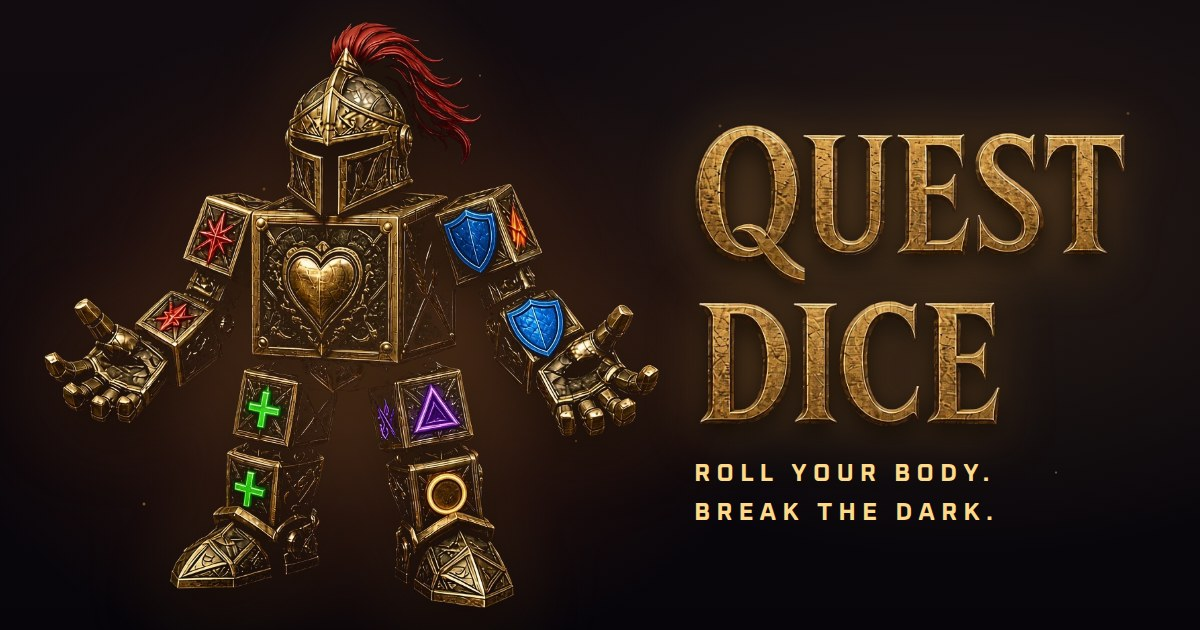
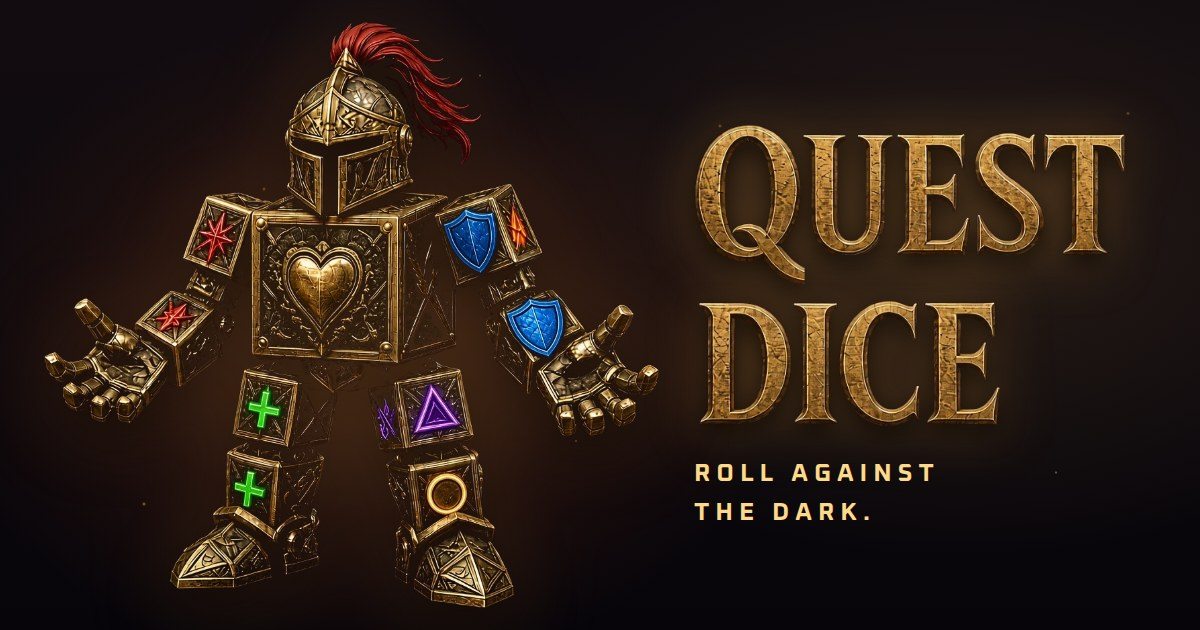
Tagline: Roll against the dark. (home screen, link preview picture and descriptions)
Claude-Session: https://claude.ai/code/session_01DujDBar2Jc6ufUDBkRgkDu

Changed region(s): [[0.5858, 0.7238, 0.8325, 0.8444]]

diff --git a/index.html b/index.html
@@ -5,10 +5,10 @@
   <meta name="viewport" content="width=device-width, initial-scale=1, viewport-fit=cover">
   <meta name="theme-color" content="#04060d">
   <title>Quest Dice</title>
-  <script type="importmap">{"imports":{"three":"./vendor/three/build/three.module.js","three/addons/":"./vendor/three/examples/jsm/","./js/auction.js":"./js/auction.js?v=20261010q","./js/audio.js":"./js/audio.js?v=20261010q","./js/cloud.js":"./js/cloud.js?v=20261010q","./js/coach.js":"./js/coach.js?v=20261010q","./js/data.js":"./js/data.js?v=20261010q","./js/die3d.js":"./js/die3d.js?v=20261010q","./js/dom.js":"./js/dom.js?v=20261010q","./js/engine.js":"./js/engine.js?v=20261010q","./js/firebase-config.js":"./js/firebase-config.js?v=20261010q","./js/fx.js":"./js/fx.js?v=20261010q","./js/g3/battle3d.js":"./js/g3/battle3d.js?v=20261010q","./js/g3/director.js":"./js/g3/director.js?v=20261010q","./js/g3/hudkit.js":"./js/g3/hudkit.js?v=20261010q","./js/g3/icons.js":"./js/g3/icons.js?v=20261010q","./js/g3/portrait.js":"./js/g3/portrait.js?v=20261010q","./js/g3/screens.js":"./js/g3/screens.js?v=20261010q","./js/g3/scrui.js":"./js/g3/scrui.js?v=20261010q","./js/g3/stubs.js":"./js/g3/stubs.js?v=20261010q","./js/g3/tutorial.js":"./js/g3/tutorial.js?v=20261010q","./js/g3/world.js":"./js/g3/world.js?v=20261010q","./js/gfx/actors/base.js":"./js/gfx/actors/base.js?v=20261010q","./js/gfx/actors/common.js":"./js/gfx/actors/common.js?v=20261010q","./js/gfx/actors/cultist.js":"./js/gfx/actors/cultist.js?v=20261010q","./js/gfx/actors/goblin.js":"./js/gfx/actors/goblin.js?v=20261010q","./js/gfx/actors/goblinking.js":"./js/gfx/actors/goblinking.js?v=20261010q","./js/gfx/actors/hero.js":"./js/gfx/actors/hero.js?v=20261010q","./js/gfx/actors/heroclips.js":"./js/gfx/actors/heroclips.js?v=20261010q","./js/gfx/actors/herocloth.js":"./js/gfx/actors/herocloth.js?v=20261010q","./js/gfx/actors/herokit.js":"./js/gfx/actors/herokit.js?v=20261010q","./js/gfx/actors/index.js":"./js/gfx/actors/index.js?v=20261010q","./js/gfx/actors/ogre.js":"./js/gfx/actors/ogre.js?v=20261010q","./js/gfx/actors/parts.js":"./js/gfx/actors/parts.js?v=20261010q","./js/gfx/actors/parts2.js":"./js/gfx/actors/parts2.js?v=20261010q","./js/gfx/actors/wolf.js":"./js/gfx/actors/wolf.js?v=20261010q","./js/gfx/arena.js":"./js/gfx/arena.js?v=20261010q","./js/gfx/arena/common.js":"./js/gfx/arena/common.js?v=20261010q","./js/gfx/arena/flora.js":"./js/gfx/arena/flora.js?v=20261010q","./js/gfx/arena/fx.js":"./js/gfx/arena/fx.js?v=20261010q","./js/gfx/arena/ground.js":"./js/gfx/arena/ground.js?v=20261010q","./js/gfx/arena/helpers.js":"./js/gfx/arena/helpers.js?v=20261010q","./js/gfx/arena/kit.js":"./js/gfx/arena/kit.js?v=20261010q","./js/gfx/arena/places1.js":"./js/gfx/arena/places1.js?v=20261010q","./js/gfx/arena/places2.js":"./js/gfx/arena/places2.js?v=20261010q","./js/gfx/arena/props.js":"./js/gfx/arena/props.js?v=20261010q","./js/gfx/arena/sky.js":"./js/gfx/arena/sky.js?v=20261010q","./js/gfx/arena/tex.js":"./js/gfx/arena/tex.js?v=20261010q","./js/gfx/core.js":"./js/gfx/core.js?v=20261010q","./js/gfx/demo/actor.js":"./js/gfx/demo/actor.js?v=20261010q","./js/gfx/demo/arena.js":"./js/gfx/demo/arena.js?v=20261010q","./js/gfx/demo/dicegallery.js":"./js/gfx/demo/dicegallery.js?v=20261010q","./js/gfx/demo/dicelab.js":"./js/gfx/demo/dicelab.js?v=20261010q","./js/gfx/demo/materials.js":"./js/gfx/demo/materials.js?v=20261010q","./js/gfx/demo/tray.js":"./js/gfx/demo/tray.js?v=20261010q","./js/gfx/demo/vfx.js":"./js/gfx/demo/vfx.js?v=20261010q","./js/gfx/demo/weapons.js":"./js/gfx/demo/weapons.js?v=20261010q","./js/gfx/dice/art.js":"./js/gfx/dice/art.js?v=20261010q","./js/gfx/dice/dice.js":"./js/gfx/dice/dice.js?v=20261010q","./js/gfx/dice/faces.js":"./js/gfx/dice/faces.js?v=20261010q","./js/gfx/dice/fx.js":"./js/gfx/dice/fx.js?v=20261010q","./js/gfx/dice/poly.js":"./js/gfx/dice/poly.js?v=20261010q","./js/gfx/dice/roll.js":"./js/gfx/dice/roll.js?v=20261010q","./js/gfx/dice/tray.js":"./js/gfx/dice/tray.js?v=20261010q","./js/gfx/env.js":"./js/gfx/env.js?v=20261010q","./js/gfx/mats.js":"./js/gfx/mats.js?v=20261010q","./js/gfx/noise.js":"./js/gfx/noise.js?v=20261010q","./js/gfx/particles.js":"./js/gfx/particles.js?v=20261010q","./js/gfx/post.js":"./js/gfx/post.js?v=20261010q","./js/gfx/rig.js":"./js/gfx/rig.js?v=20261010q","./js/gfx/tex.js":"./js/gfx/tex.js?v=20261010q","./js/gfx/util.js":"./js/gfx/util.js?v=20261010q","./js/gfx/vfx.js":"./js/gfx/vfx.js?v=20261010q","./js/gfx/vfx/quads.js":"./js/gfx/vfx/quads.js?v=20261010q","./js/gfx/vfx/shaders.js":"./js/gfx/vfx/shaders.js?v=20261010q","./js/gfx/vfx/strips.js":"./js/gfx/vfx/strips.js?v=20261010q","./js/gfx/vfx/text.js":"./js/gfx/vfx/text.js?v=20261010q","./js/gfx/vfx/textures.js":"./js/gfx/vfx/textures.js?v=20261010q","./js/gfx/weapons.js":"./js/gfx/weapons.js?v=20261010q","./js/main.js":"./js/main.js?v=20261010q","./js/mat.js":"./js/mat.js?v=20261010q","./js/net.js":"./js/net.js?v=20261010q","./js/pack.js":"./js/pack.js?v=20261010q","./js/roads.js":"./js/roads.js?v=20261010q","./js/roomui.js":"./js/roomui.js?v=20261010q","./js/save.js":"./js/save.js?v=20261010q","./js/story.js":"./js/story.js?v=20261010q","./js/table.js":"./js/table.js?v=20261010q","./js/ui.js":"./js/ui.js?v=20261010q","./js/view.js":"./js/view.js?v=20261010q"}}</script>
-  <meta name="description" content="Roll your body. Break the dark. A fantasy dice campaign for one to six heroes, each on their own phone.">
+  <script type="importmap">{"imports":{"three":"./vendor/three/build/three.module.js","three/addons/":"./vendor/three/examples/jsm/","./js/auction.js":"./js/auction.js?v=20261010r","./js/audio.js":"./js/audio.js?v=20261010r","./js/cloud.js":"./js/cloud.js?v=20261010r","./js/coach.js":"./js/coach.js?v=20261010r","./js/data.js":"./js/data.js?v=20261010r","./js/die3d.js":"./js/die3d.js?v=20261010r","./js/dom.js":"./js/dom.js?v=20261010r","./js/engine.js":"./js/engine.js?v=20261010r","./js/firebase-config.js":"./js/firebase-config.js?v=20261010r","./js/fx.js":"./js/fx.js?v=20261010r","./js/g3/battle3d.js":"./js/g3/battle3d.js?v=20261010r","./js/g3/director.js":"./js/g3/director.js?v=20261010r","./js/g3/hudkit.js":"./js/g3/hudkit.js?v=20261010r","./js/g3/icons.js":"./js/g3/icons.js?v=20261010r","./js/g3/portrait.js":"./js/g3/portrait.js?v=20261010r","./js/g3/screens.js":"./js/g3/screens.js?v=20261010r","./js/g3/scrui.js":"./js/g3/scrui.js?v=20261010r","./js/g3/stubs.js":"./js/g3/stubs.js?v=20261010r","./js/g3/tutorial.js":"./js/g3/tutorial.js?v=20261010r","./js/g3/world.js":"./js/g3/world.js?v=20261010r","./js/gfx/actors/base.js":"./js/gfx/actors/base.js?v=20261010r","./js/gfx/actors/common.js":"./js/gfx/actors/common.js?v=20261010r","./js/gfx/actors/cultist.js":"./js/gfx/actors/cultist.js?v=20261010r","./js/gfx/actors/goblin.js":"./js/gfx/actors/goblin.js?v=20261010r","./js/gfx/actors/goblinking.js":"./js/gfx/actors/goblinking.js?v=20261010r","./js/gfx/actors/hero.js":"./js/gfx/actors/hero.js?v=20261010r","./js/gfx/actors/heroclips.js":"./js/gfx/actors/heroclips.js?v=20261010r","./js/gfx/actors/herocloth.js":"./js/gfx/actors/herocloth.js?v=20261010r","./js/gfx/actors/herokit.js":"./js/gfx/actors/herokit.js?v=20261010r","./js/gfx/actors/index.js":"./js/gfx/actors/index.js?v=20261010r","./js/gfx/actors/ogre.js":"./js/gfx/actors/ogre.js?v=20261010r","./js/gfx/actors/parts.js":"./js/gfx/actors/parts.js?v=20261010r","./js/gfx/actors/parts2.js":"./js/gfx/actors/parts2.js?v=20261010r","./js/gfx/actors/wolf.js":"./js/gfx/actors/wolf.js?v=20261010r","./js/gfx/arena.js":"./js/gfx/arena.js?v=20261010r","./js/gfx/arena/common.js":"./js/gfx/arena/common.js?v=20261010r","./js/gfx/arena/flora.js":"./js/gfx/arena/flora.js?v=20261010r","./js/gfx/arena/fx.js":"./js/gfx/arena/fx.js?v=20261010r","./js/gfx/arena/ground.js":"./js/gfx/arena/ground.js?v=20261010r","./js/gfx/arena/helpers.js":"./js/gfx/arena/helpers.js?v=20261010r","./js/gfx/arena/kit.js":"./js/gfx/arena/kit.js?v=20261010r","./js/gfx/arena/places1.js":"./js/gfx/arena/places1.js?v=20261010r","./js/gfx/arena/places2.js":"./js/gfx/arena/places2.js?v=20261010r","./js/gfx/arena/props.js":"./js/gfx/arena/props.js?v=20261010r","./js/gfx/arena/sky.js":"./js/gfx/arena/sky.js?v=20261010r","./js/gfx/arena/tex.js":"./js/gfx/arena/tex.js?v=20261010r","./js/gfx/core.js":"./js/gfx/core.js?v=20261010r","./js/gfx/demo/actor.js":"./js/gfx/demo/actor.js?v=20261010r","./js/gfx/demo/arena.js":"./js/gfx/demo/arena.js?v=20261010r","./js/gfx/demo/dicegallery.js":"./js/gfx/demo/dicegallery.js?v=20261010r","./js/gfx/demo/dicelab.js":"./js/gfx/demo/dicelab.js?v=20261010r","./js/gfx/demo/materials.js":"./js/gfx/demo/materials.js?v=20261010r","./js/gfx/demo/tray.js":"./js/gfx/demo/tray.js?v=20261010r","./js/gfx/demo/vfx.js":"./js/gfx/demo/vfx.js?v=20261010r","./js/gfx/demo/weapons.js":"./js/gfx/demo/weapons.js?v=20261010r","./js/gfx/dice/art.js":"./js/gfx/dice/art.js?v=20261010r","./js/gfx/dice/dice.js":"./js/gfx/dice/dice.js?v=20261010r","./js/gfx/dice/faces.js":"./js/gfx/dice/faces.js?v=20261010r","./js/gfx/dice/fx.js":"./js/gfx/dice/fx.js?v=20261010r","./js/gfx/dice/poly.js":"./js/gfx/dice/poly.js?v=20261010r","./js/gfx/dice/roll.js":"./js/gfx/dice/roll.js?v=20261010r","./js/gfx/dice/tray.js":"./js/gfx/dice/tray.js?v=20261010r","./js/gfx/env.js":"./js/gfx/env.js?v=20261010r","./js/gfx/mats.js":"./js/gfx/mats.js?v=20261010r","./js/gfx/noise.js":"./js/gfx/noise.js?v=20261010r","./js/gfx/particles.js":"./js/gfx/particles.js?v=20261010r","./js/gfx/post.js":"./js/gfx/post.js?v=20261010r","./js/gfx/rig.js":"./js/gfx/rig.js?v=20261010r","./js/gfx/tex.js":"./js/gfx/tex.js?v=20261010r","./js/gfx/util.js":"./js/gfx/util.js?v=20261010r","./js/gfx/vfx.js":"./js/gfx/vfx.js?v=20261010r","./js/gfx/vfx/quads.js":"./js/gfx/vfx/quads.js?v=20261010r","./js/gfx/vfx/shaders.js":"./js/gfx/vfx/shaders.js?v=20261010r","./js/gfx/vfx/strips.js":"./js/gfx/vfx/strips.js?v=20261010r","./js/gfx/vfx/text.js":"./js/gfx/vfx/text.js?v=20261010r","./js/gfx/vfx/textures.js":"./js/gfx/vfx/textures.js?v=20261010r","./js/gfx/weapons.js":"./js/gfx/weapons.js?v=20261010r","./js/main.js":"./js/main.js?v=20261010r","./js/mat.js":"./js/mat.js?v=20261010r","./js/net.js":"./js/net.js?v=20261010r","./js/pack.js":"./js/pack.js?v=20261010r","./js/roads.js":"./js/roads.js?v=20261010r","./js/roomui.js":"./js/roomui.js?v=20261010r","./js/save.js":"./js/save.js?v=20261010r","./js/story.js":"./js/story.js?v=20261010r","./js/table.js":"./js/table.js?v=20261010r","./js/ui.js":"./js/ui.js?v=20261010r","./js/view.js":"./js/view.js?v=20261010r"}}</script>
+  <meta name="description" content="Roll against the dark. A fantasy dice campaign for one to six heroes, each on their own phone.">
   <meta property="og:title" content="Quest Dice">
-  <meta property="og:description" content="Roll your body. Break the dark. A fantasy dice adventure: solo or with friends, free on your phone.">
+  <meta property="og:description" content="Roll against the dark. A fantasy dice adventure: solo or with friends, free on your phone.">
   <meta property="og:type" content="website">
   <meta property="og:url" content="https://davepartin.github.io/questdice/">
   <meta property="og:site_name" content="Quest Dice">
@@ -23,11 +23,11 @@
   <link rel="preconnect" href="https://fonts.googleapis.com">
   <link rel="preconnect" href="https://fonts.gstatic.com" crossorigin>
   <link href="https://fonts.googleapis.com/css2?family=Archivo+Black&family=Cormorant+Garamond:ital,wght@0,500;0,600;1,500&family=Inter:wght@400;500;600;700&family=Oxanium:wght@500;600;700;800&display=swap" rel="stylesheet">
-  <link rel="stylesheet" href="css/style.css?v=20261010q">
-  <link rel="stylesheet" href="css/g3.css?v=20261010q">
-  <link rel="stylesheet" href="css/screens.css?v=20261010q">
-  <link rel="stylesheet" href="css/hud.css?v=20261010q">
-  <link rel="stylesheet" href="css/tutorial.css?v=20261010q">
+  <link rel="stylesheet" href="css/style.css?v=20261010r">
+  <link rel="stylesheet" href="css/g3.css?v=20261010r">
+  <link rel="stylesheet" href="css/screens.css?v=20261010r">
+  <link rel="stylesheet" href="css/hud.css?v=20261010r">
+  <link rel="stylesheet" href="css/tutorial.css?v=20261010r">
 </head>
 <body>
   <div class="app-frame">
@@ -44,6 +44,6 @@
   <div id="toast" role="status"></div>
   <div id="modal"></div>
   <noscript><p style="padding:2rem;color:#fff">QuestDice needs JavaScript.</p></noscript>
-  <script type="module" src="js/main.js?v=20261010q"></script>
+  <script type="module" src="js/main.js?v=20261010r"></script>
 </body>
 </html>

diff --git a/js/ui.js b/js/ui.js
@@ -140,7 +140,7 @@ export function showTitle() {
   const grid = h('div', { class: 'title-grid', 'aria-hidden': 'true' }, D.SLOTS.map((s) => h('div', { class: `td td-${s} ${['N', 'W', 'E', 'S', 'C'].includes(s) ? 'limb' : ''}` }, h('span', {}, String(1 + Math.floor(Math.random() * 4))))));
   const tick = () => { $$('.td span', grid).forEach((n, i) => { if (Math.random() < 0.35) { n.textContent = String(1 + Math.floor(Math.random() * (i === 4 ? 6 : 4))); n.parentElement.classList.remove('pop'); void n.parentElement.offsetWidth; n.parentElement.classList.add('pop'); } }); };
   const items = [
-    h('header', { class: 'title-art' }, grid, h('h1', { class: 'logo' }, 'QUEST', h('span', {}, 'DICE')), h('p', { class: 'tagline' }, 'Roll your body. Break the dark.')),
+    h('header', { class: 'title-art' }, grid, h('h1', { class: 'logo' }, 'QUEST', h('span', {}, 'DICE')), h('p', { class: 'tagline' }, 'Roll against the dark.')),
   ];
   const seat = Net.savedSeat();
   if (seat) items.push(cmd('Table', `Rejoin ${seat.code}`, 'This phone still has a seat.', () => resume(), { glyph: '⚔', tone: 'versus' }));

diff --git a/js/g3/scrui.js b/js/g3/scrui.js
@@ -106,7 +106,7 @@ function logo() {
     h('img', { class: 'br-knight', src: 'assets/brand/knight.webp', alt: 'The Quest Dice knight, made of dice', draggable: 'false', decoding: 'async' }),
     h('div', { class: 'br-words' },
       h('h1', { class: 'br-title' }, h('img', { class: 'br-quest', src: 'assets/brand/quest.webp', alt: 'Quest', draggable: 'false' }), h('img', { class: 'br-dice', src: 'assets/brand/dice.webp', alt: 'Dice', draggable: 'false' })),
-      h('p', { class: 'br-tag' }, h('span', {}, 'Roll your body.'), h('span', {}, 'Break the dark.'))));
+      h('p', { class: 'br-tag' }, h('span', {}, 'Roll against'), h('span', {}, 'the dark.'))));
 }
 
 // "Play together" opens in place: share one phone, or each on your own.

diff --git a/docs/PLAN.md b/docs/PLAN.md
@@ -520,3 +520,5 @@ GitHub Pages stopped rebuilding after run 93 (Oct 6, 22:00 UTC; live site stuck 
 - Link preview (what Messages shows for a texted link): index.html og:/twitter: tags point at assets/brand/og.jpg
   (1200x630, knight + words + tagline). iPhone home-screen icon: assets/brand/icon-180.png. Messages caches previews,
   so an old text of the link may stay plain. The earlier preview options A-H live in docs/ingame/preview_option_*.png.
+- Tagline (Dave, 10 Oct): **"Roll against the dark."** (was "Roll your body. Break the dark."). Home screen, classic title,
+  index.html description and og:description, and the link-preview picture assets/brand/og.jpg.
